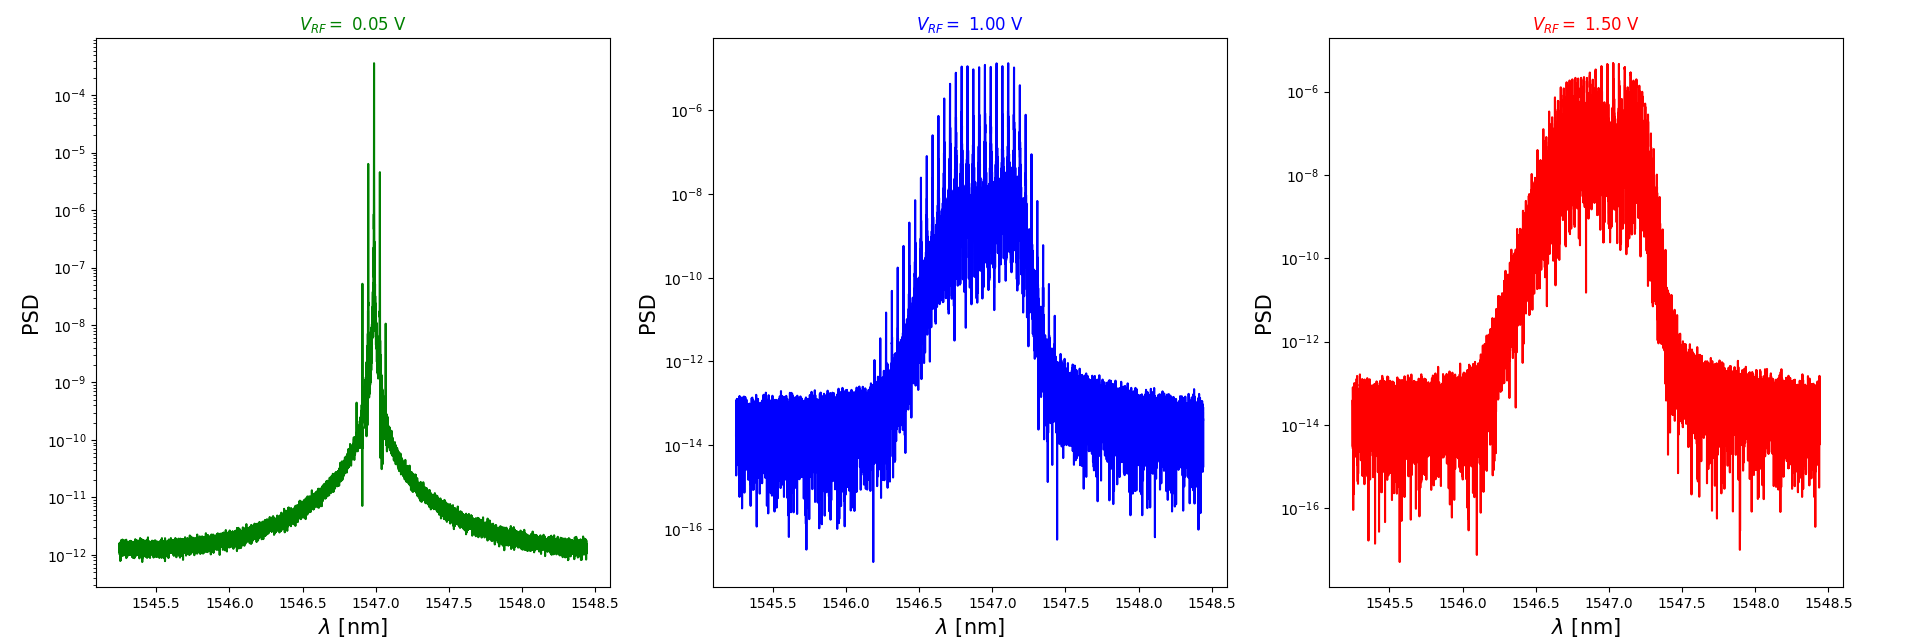
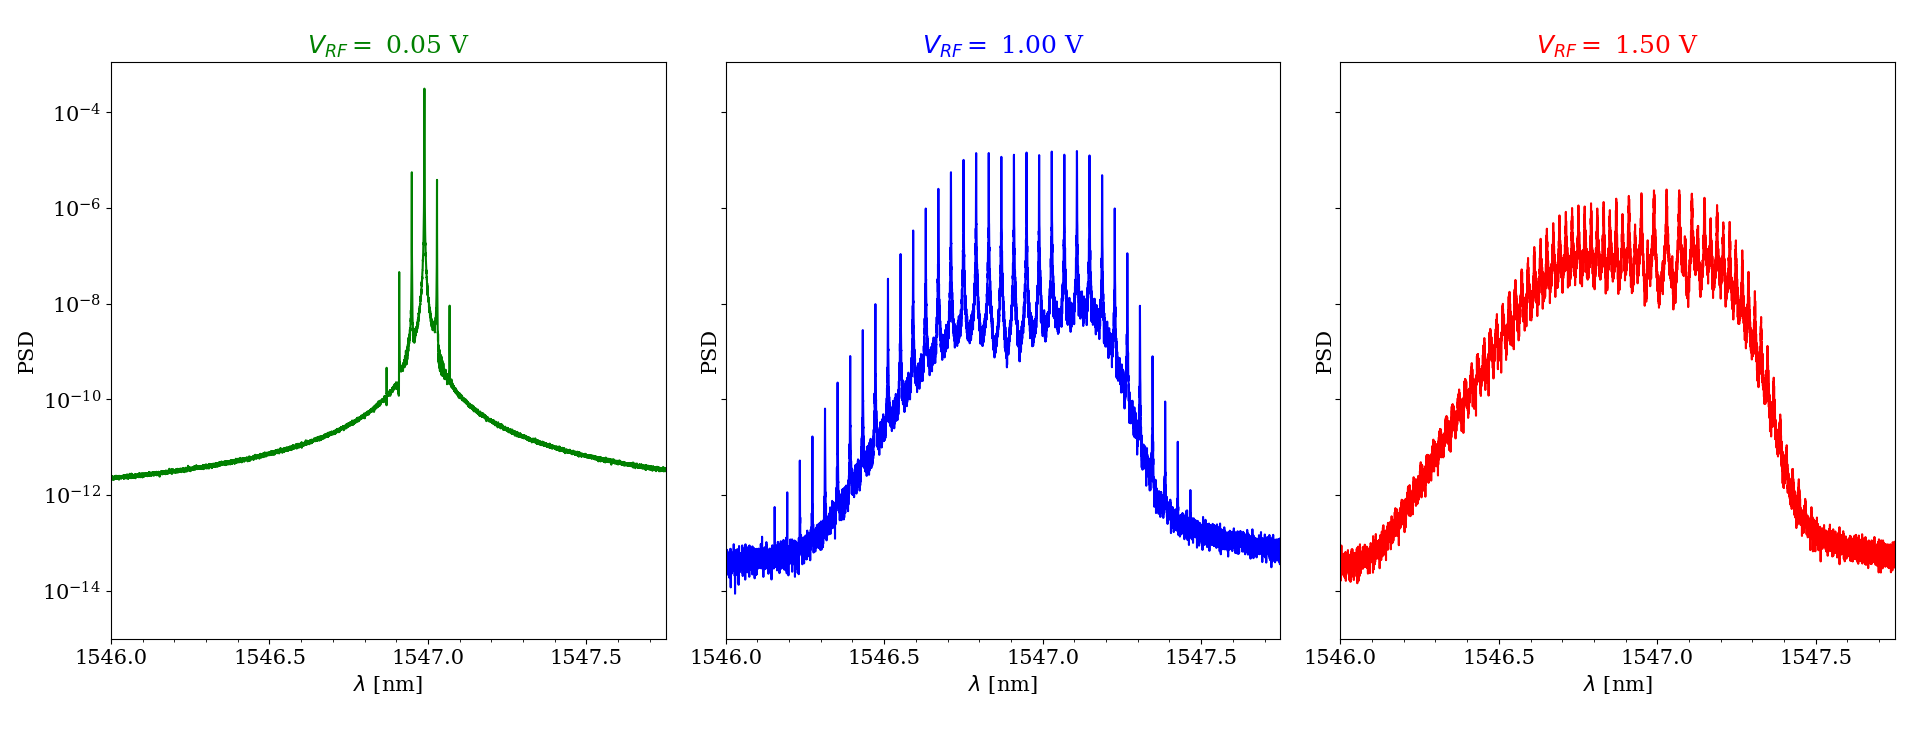
Other changes

diff --git a/src/plot_stdyPhase.py b/src/plot_stdyPhase.py
@@ -1,130 +1,46 @@
-import numpy as np
-import matplotlib.pyplot as plt
-import cmath
+__author__ = 'Jaime Diez G-P'
+__version__ = '1.0.0'
+__email__ = "jaimediezgp@gmail.com"
+__date__ = "May 27, 2019"
 
-from Constantes import *
-from getTempValues import *
+import numpy as np
+import matplotlib
+import matplotlib.pyplot as plt
+import os.path
+
+from simulacion import Simulacion
+
+font = {'family' : 'serif',
+        'weight' : 'normal',
+        'size'   : 15}
+matplotlib.rc('font', **font)
 
 iBias = 30  # bias current [mA] / must be in [C ns^-1] by multiplying *10**-12
-
-deltaT = getDeltaT(iBias)
-deltaF = getConstante(iBias)
-
-faseTerm = faseConstant - pi2t * deltaT
-
 vRF = 1.0 *10**(-9) #RMS voltage value of the signal generator [V]
+fR = 5.0
 
-nWindw = 40 # numero de ventanas (para promediar) N natural
+existData = True
 
-delta = 0.0025 # tiempo de muestreo para la FFT [ns]
-nFFT = int(tWindw / delta) # numero de puntos de la FFT (potencia de 2)
-ndelta = int(delta / tIntev) # ndelta*tIntev=delta
+nameFile = "Data/PSD_%imA_%imV_%iGHZ.npz" %(iBias, vRF *10**(12), fR)
 
-#                  INTENSIDAD
-#
-#                 2 sqrt(2) vRF 
-# I_bias + cLoss --------------- sin(2 pi fR t)
-#                   z0 + zL
-current = lambda t: (iBias*10**(-12) + (cLoss * 2.0 * np.sqrt(2) * vRF *
-                                            np.sin(2 * np.pi * fR * t)) / rInt)
+if os.path.isfile(nameFile) and existData:
 
-################################################################################
-##  Inicializar los vectores de tiempo (time), de la densidad de portadores (N)
-##      densidad de fotones (S) y de la fase optica (Phi)
-################################################################################
+    dataPSD = np.load(nameFile)
+    print "Opening file: " + nameFile
 
-time = np.linspace(0, tTotal, nTotal)
-opField = np.zeros(nFFT, dtype=complex)
+    fftWL = dataPSD['fftWL']
+    TFprom = dataPSD['TFprom']
+    TFang = dataPSD['TFang']
 
-############################
-##  Iniciar Simulacion
-############################
+else:
+    laser = Simulacion(iBias, vRF, fR)
+    laser.allSimulation()
 
-TFprom = 0
-angProm = 0
+    fftWL, TFprom, TFang = laser.fftWL, laser.TFprom, laser.TFang
 
-currentTerm = eVinv * current(time)
+fig, ax1 = plt.subplots(figsize=(8,6))
 
-for win in range(0, nWindw):
-
-    #---------------------------------------------------------
-    # Vectores Gaussianos N(0,1) para el  Ruido
-    #---------------------------------------------------------
-    X = np.random.normal(0, 1, nTotal)
-    Y = np.random.normal(0, 1, nTotal)
-
-    # Se definen las condiciones iniciales para resolver la EDO
-    tempN = nTr
-    tempS = float(10**(20))
-    tempPhi = 0
-
-    for q in range(0, nTrans):
-
-        bTN = bTIntv * tempN * tempN
-        invS = 1 / ((1/tempS) + epsilon)
-        sqrtS = np.sqrt(abs(tempS))
-
-        tempPhi = (tempPhi + aphvgTGmm*tempN - faseTerm +
-                                                    ruidoPhi*tempN*Y[q]/sqrtS)
-
-        tempS = (tempS + vgTGmm*tempN*invS - vgTGmmN*invS - intTtau*tempS +
-                                            btGmm*bTN + ruidoS*tempN*sqrtS*X[q])
-
-        tempN = (tempN + currentTerm[q] - aTIntv*tempN - bTN -
-                                cTIntv*tempN**3 - vgT*tempN*invS + vgtN*invS)
-
-    opField[0] = np.sqrt(constP * tempS) * np.exp(1j*tempPhi)
-
-    for q in range(1, nFFT):
-        for k in range(0, ndelta):
-
-            index = (q-1)*ndelta + k + nTrans
-
-            bTN = bTIntv * tempN * tempN
-            invS = 1 / ((1/tempS) + epsilon)
-            sqrtS = np.sqrt(tempS)
-
-            tempPhi = (tempPhi + aphvgTGmm*tempN - faseTerm +
-                                                ruidoPhi*tempN*Y[index]/sqrtS)
-
-            tempS = (tempS + vgTGmm*tempN*invS - vgTGmmN*invS - intTtau*tempS
-                                    + btGmm*bTN + ruidoS*tempN*sqrtS*X[index])
-
-            tempN = (tempN + currentTerm[index] - aTIntv*tempN - bTN -
-                                (cTIntv*tempN**3) - vgT*tempN*invS + vgtN*invS)
-
-        opField[q] = np.sqrt(constP * tempS) * np.exp(1j*tempPhi)
-
-    transFourier = np.fft.fft(opField)
-    TFprom += (abs(np.fft.fftshift(transFourier)) *
-               abs(np.fft.fftshift(transFourier))/float(nWindw))
-    angProm += np.angle(np.fft.fftshift(transFourier))/float(nWindw)
-
-#########################################
-##  Representacion de los Datos
-#########################################
-
-#-------------------------------------------------------------------------------
-# Espectro optico frente a la longitud de onda
-#
-#   EL espectro optico se obtiene realizando la transformada de Fourier del
-#   campo optico total (opField). Las frecuencias han de ir en pasos de
-#   1/2Ndelta en el intervalo [-1/2delta, 1/2delta], siendo delta el paso de la
-#   transformada de fourier.  Para la obtencion de la longitud de onda se
-#   obtienen las frecuencias de la transformada de Fourier y se le suma la
-#   frecuencia total (freqTotal) y se pasa a longitud de onda con c0
-#-------------------------------------------------------------------------------
-frecuencyLimits = 1 / (2*delta)
-fftTime = np.linspace(-frecuencyLimits, frecuencyLimits, nFFT)#, endpoint=True)
-
-fftTime += f0 - (deltaF/(2.0*np.pi))
-
-fftWL = (c0/fftTime) *10**(9) # longitud de onda [nm]
-
-fig, ax1 = plt.subplots()
-fig.subplots_adjust(left=0.05, bottom=0.08, right=0.96, top=0.94, hspace=0.2)
-
-ax1.plot(fftWL, angProm, "r")
+ax1.plot(fftWL, TFang, "r")
 ax1.set_xlabel("$\lambda$ [nm]", fontsize=15)
 ax1.set_ylabel("FFT Phase [rad]", fontsize=15)
 ax1.tick_params('y', colors='r')

diff --git a/src/plot_vrsPSD.py b/src/plot_vrsPSD.py
@@ -1,4 +1,6 @@
 import matplotlib
+import matplotlib.ticker as ticker
+from matplotlib.ticker import FormatStrFormatter
 import numpy as np
 import matplotlib.pyplot as plt
 import os.path
@@ -21,7 +23,6 @@ colors = ['g', 'b', 'r']
 
 fig, axs = plt.subplots(1, len(vRF), sharex=True, sharey=True,
                                               figsize=(20, int(20/len(vRF))))
-fig.subplots_adjust(left=0.05, bottom=0.08, right=0.96, top=0.94, hspace=0.2)
 
 for i in range(len(vRF)):
 
@@ -58,9 +59,13 @@ for i in range(len(vRF)):
     axs[i].plot(fftWL, TFprom, colors[i])
     axs[i].set_xlabel("$\lambda$ [nm]", fontsize=15)
     axs[i].set_ylabel("PSD", fontsize=15)
-    #axs[i].set_xlim([1546.0, 1547.5])
+    axs[i].set_xlim([1546.0, 1547.75])
+    axs[i].xaxis.set_major_locator(ticker.MultipleLocator(0.5))
+    axs[i].xaxis.set_minor_locator(ticker.MultipleLocator(0.1))
+    #axs[i].xaxis.set_major_formatter(FormatStrFormatter('%0.2f'))
     #axs[i].set_ylim([9*10**(-15), 0.003])
     axs[i].set_yscale("log")
     axs[i].set_title("$V_{RF} = $ %.2f V" %(vRF[i]*10**9), color=colors[i])
 
+plt.tight_layout()
 plt.show()

diff --git a/src/plot_500MHz.py b/src/plot_500MHz.py
@@ -16,11 +16,9 @@ vRF = [0.05 *10**(-9), 0.4 *10**(-9), 1.0 * 10**(-9), 1.2 * 10**(-9)]#, 1.5 * 10
 fR = 0.5 # [GHz]
 period = 3 / fR
 
-existData = True
+existData = False
 
-fig, axs = plt.subplots(2, len(vRF), figsize=(17, 10))
-# Remove horizontal space between axes
-fig.subplots_adjust(left=0.05, bottom=0.08, right=0.98, top=0.94, hspace=0.2)
+fig, axs = plt.subplots(2, len(vRF), figsize=(20, 10))
 
 for i in range(len(vRF)):
 
@@ -68,4 +66,5 @@ for i in range(len(vRF)):
 
 axs[0][0].set_ylabel("Power [mW]", fontsize=15)
 axs[1][0].set_ylabel("PSD", fontsize=15)
+plt.tight_layout()
 plt.show()

diff --git a/src/plot_rateEquations.py b/src/plot_rateEquations.py
@@ -40,8 +40,6 @@ existData = True
 
 fig, axs = plt.subplots(4, len(vRF), sharex=True, sharey="row",
                                                             figsize=(17, 10))
-# Remove horizontal space between axes
-fig.subplots_adjust(left=0.05, bottom=0.08, right=0.96, top=0.94, hspace=0.2)
 
 for i in range(len(vRF)):
 
@@ -101,4 +99,5 @@ axs[3][0].set_ylabel("$N(t) / N_{Tr}$", fontsize=15)
 for i in range(len(vRF)):
     axs[-1][i].set_xlabel("t [ns]", fontsize=15)
 
+plt.tight_layout()
 plt.show()

diff --git a/src/plot_transitorio.py b/src/plot_transitorio.py
@@ -27,8 +27,7 @@ fR = 5.0
 
 existData = False
 
-fig, axs = plt.subplots(4, 1, sharex=True, figsize=(10, 20))
-fig.subplots_adjust(left=0.08, bottom=0.06, right=0.96, top=0.94, hspace=0.1)
+fig, axs = plt.subplots(4, 1, sharex=True, figsize=(10, 10))
 
 nameFile = "Data/RateEquations_%imA_%imV_%iGHZ.npz" %(iBias, vRF *10**(12), fR)
 
@@ -75,4 +74,5 @@ axs[3].set_ylabel("Chirp [GHz]", fontsize=15)
 
 axs[3].set_xlabel("t [ns]", fontsize=15)
 
+plt.tight_layout()
 plt.show()

diff --git a/src/plot_espectros.py b/src/plot_espectros.py
@@ -19,8 +19,7 @@ saveIt = False
 
 WL = []
 
-fig = plt.figure(figsize=(9,6))
-fig.subplots_adjust(left=0.05, bottom=0.08, right=0.96, top=0.94, hspace=0.2)
+fig = plt.figure(figsize=(11,8))
 
 for i in range(len(iBias)):
 
@@ -59,6 +58,7 @@ plt.yscale("log")
 plt.xlim(1546.8, 1547.2)
 plt.ylim(0.9*10**(-12), 0.003)
 plt.legend()
+plt.tight_layout()
 plt.show()
 #fig.savefig("./Graficas/Espectros.png", dpi=300)
 if not existData and saveIt:

diff --git a/src/plot_current.py b/src/plot_current.py
@@ -18,9 +18,7 @@ period = 3 / fR
 
 existData = True
 
-fig, axs = plt.subplots(1, 2, figsize=(17, 10))
-# Remove horizontal space between axes
-fig.subplots_adjust(left=0.05, bottom=0.08, right=0.96, top=0.94, hspace=0.2)
+fig, axs = plt.subplots(1, 2, figsize=(20, 10))
 
 colors = ['b', 'r']
 
@@ -68,5 +66,6 @@ axs[1].set_ylabel("PSD", fontsize=15)
 
 axs[0].legend()
 axs[1].legend()
+plt.tight_layout()
 plt.show()
 
